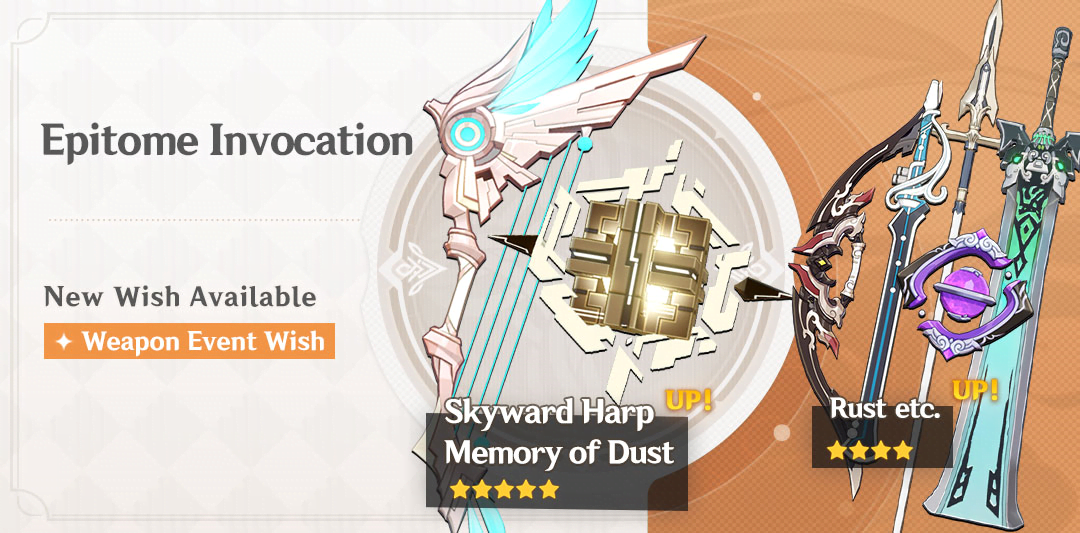
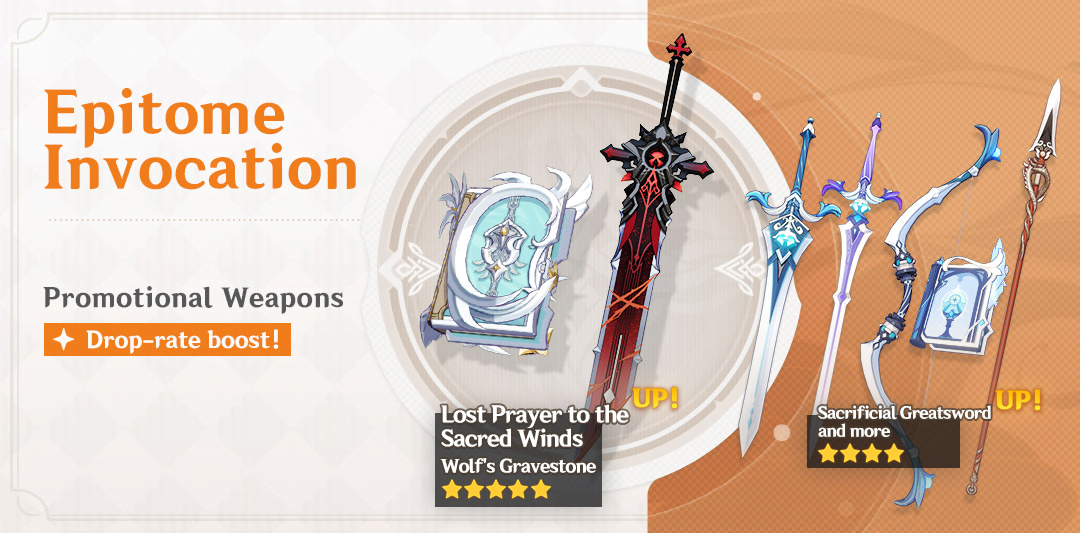
update genshin
增加武器祈愿信息 当前祈愿页有bug

diff --git a/assets/js/genshin/timeline.js b/assets/js/genshin/timeline.js
@@ -3,15 +3,17 @@ let today = dayjs();
 
 const eventObj = processEvent();
 
-let wishCharacters = eventObj.events;
+let wishCharacters = eventObj.events[0];
+let wishWeapons = eventObj.events[1];
+let wishCharacterLength = wishCharacters.length;
+let wishWeaponLength = wishWeapons.length;
 let dates = eventObj.dates;
 let monthList = eventObj.monthList;
-let wishLength = wishCharacters.length;
 
 //设置时间轴
 const setTimeAxis = () => {
     let startD = dayjs(wishCharacters[0].start).subtract(7, "day").format("YYYY-MM-DD HH:mm:ss");
-    let endD = dayjs(wishCharacters[wishLength - 1].end).add(7, "day").format("YYYY-MM-DD HH:mm:ss");
+    let endD = dayjs(wishCharacters[wishCharacterLength - 1].end).add(7, "day").format("YYYY-MM-DD HH:mm:ss");
     const allDays = getDuration("day", startD, endD);
     const countDays = allDays.length;
 
@@ -50,28 +52,47 @@ setInterval("setTodayTime()", 1000);
 //---------------------------------------------------------------------------
 
 //祈愿角色信息
-const wishInfo = () => {
-    for (let i = 0; i < wishLength; ++i) {
+const wishCharacterInfo = () => {
+    for (let i = 0; i < wishCharacterLength; ++i) {
         let start = firstDay;
         const end = dayjs(wishCharacters[i].start, "YYYY-MM-DD HH:mm:ss").subtract(0, "minute");
         const duration = end.diff(start, "day", true);
         // console.log(i, duration)
 
         //动态设置各个角色的css
-        $(".event-item-" + i).removeClass("hide");
-        $(".event-item-" + i).css({
+        $(".event-item-character-" + i).removeClass("hide");
+        $(".event-item-character-" + i).css({
             "width": wishCharacters[i].duration * DAY_WIDTH + "px",
             "left": duration * DAY_WIDTH + 30 + "px"
         });
         if (wishCharacters[i].wish_2)
-            $(".event-item-" + i).css("marginTop", "140px");
+            $(".event-item-character-" + i).css("marginTop", "140px");
 
         //left-t
         $(".left-t" + i).css("left", (350 * i) + "px");
     }
 };
-wishInfo();
+wishCharacterInfo();
+//祈愿武器信息
+const wishWeaponInfo = () => {
+    for (let i = 0; i < wishWeaponLength; ++i) {
+        let start = firstDay;
+        const end = dayjs(wishWeapons[i].start, "YYYY-MM-DD HH:mm:ss").subtract(0, "minute");
+        const duration = end.diff(start, "day", true);
+        // console.log(i, duration)
 
+        //动态设置各个角色的css
+        $(".event-item-weapon-" + i).removeClass("hide");
+        $(".event-item-weapon-" + i).css({
+            "width": wishWeapons[i].duration * DAY_WIDTH + "px",
+            "left": duration * DAY_WIDTH + 30 + "px"
+        });
+
+        //left-t
+        $(".left-t" + i).css("left", (350 * i) + "px");
+    }
+};
+wishWeaponInfo();
 
 $(".lazy").lazyload({
     placeholder: "assets/res/genshin-impact/characters/kamisato_ayaka.png", // 用图片提前占位，值为某一图片路径.此图片用来占据将要加载的图片的位置,待图片加载时,占位图则会隐藏

diff --git a/_includes/genshin/timeline.html b/_includes/genshin/timeline.html
@@ -27,14 +27,32 @@
                 <div class="timeline-today-line-pos-text" id="currentTime"></div>
             </div>
 
-            <div class="timeline-wish">
+            <div class="timeline-wish-event-weapon">
+                {% for weapon in site.data.genshin.wish.weapons %}
+                {% assign i = forloop.index0 %}
+
+                <div class="card event-item event-item-weapon-{{i}} hide">
+                    <div class="card-image waves-effect waves-block waves-light" style="height: 100%">
+                        <div class="event-img responsive-img lazy"
+                             data-original="/assets/res/genshin-impact/wish/{{weapon.name | downcase | replace: ' ', '_' | append: '_' | append: weapon.image | append: '.jpg' }}">
+                        </div>
+                        <div class="left-align timeline-character-text ele-text-{{characters[1].ele}}">
+                            <div class="timeline-wish-name">{{weapon.name}}</div>
+                        </div>
+                    </div>
+                </div>
+
+                {% endfor %}
+            </div>
+
+            <div class="timeline-wish-event-character">
 
                 {% for wish in site.data.genshin.wish.characters %}
                 {% assign i = forloop.index0 %}
 
                 {% for characters in site.data.genshin.characters %}
                 {% if characters[1].id == wish.wish5star %}
-                <div class="card event-item event-item-{{i}} event-item-background-{{characters[1].ele}} hide">
+                <div class="card event-item event-item-character-{{i}} event-item-background-{{characters[1].ele}} hide">
                     <div class="card-image waves-effect waves-block waves-light" style="height: 100%">
                         <!-- Modal Trigger -->
                         <a class="modal-trigger" href="#modal{{i}}">
@@ -84,6 +102,7 @@
                 {% endif %}
                 {% endfor %}
                 {% endfor %}
+
             </div>
 
             {% for i in (0..lenAllDays) %}

diff --git a/assets/css/genshin.css b/assets/css/genshin.css
@@ -6,6 +6,7 @@
     --ele-pyro: #fa5d3e;
     --ele-anemo: #57dcb0;
     --ele-cryo: #84c2e6;
+    --event-height: 128px;
 }
 
 /*元素背景色*/
@@ -221,7 +222,7 @@
     border-radius: 20px;
     opacity: 1;
     right: 0;
-    height: 128px;
+    height: var(--event-height);
 }
 
 .event-item-background-dendro {
@@ -278,7 +279,7 @@
     overflow-y: hidden;
     overflow-x: scroll;
     /*display: flex;*/
-    height: 350px;
+    height: calc(var(--event-height) * 4);
 }
 
 .timeline-scroll-x::-webkit-scrollbar { /*滚动条整体样式*/
@@ -313,14 +314,21 @@
 .timeline-day {
     display: flex;
     margin-top: 20px;
-    height: 350px;
+    height: calc(var(--event-height) * 4);
     position: relative;
 }
 
-.timeline-wish {
+.timeline-wish-event-weapon {
     display: flex;
     position: absolute;
-    z-index: 3
+    z-index: 3;
+}
+
+.timeline-wish-event-character {
+    top: calc(var(--event-height) + 10px);
+    display: flex;
+    position: absolute;
+    z-index: 3;
 }
 
 -webkit-scrollbar {
@@ -336,7 +344,6 @@
     overflow: hidden;
 }
 
-
 .character-avatar {
     background-repeat: no-repeat;
     background-position: center;
@@ -348,7 +355,6 @@
     background-position: center;
     border-radius: 10px;
 }
-
 
 .slider .slides {
     background-color: unset;

diff --git a/assets/js/genshin/event.js b/assets/js/genshin/event.js
@@ -25,7 +25,11 @@ const processEvent = () => {
     let yearList = [];
     let monthList = [];
 
-    let events = eventsData.map((e, i) => {
+    let eventsDataInfo = [];
+    eventsDataInfo[0] = eventsData["characters"];
+    eventsDataInfo[1] = eventsData["weapons"];
+
+    let events = eventsDataInfo.map((e, i) => {
         if (Array.isArray(e)) {
             return e.map((item) => convertToDate(item, i));
         }

diff --git a/assets/js/genshin/wish.js b/assets/js/genshin/wish.js
@@ -10,7 +10,7 @@ const ELEMENT_COLOR = {
 
 const eventObj = processEvent();
 
-let wishCharacters = eventObj.events;
+let wishCharacters = eventObj.events[0];
 let wishLength = wishCharacters.length;
 
 //替换空格 转小写----------------
@@ -28,7 +28,6 @@ let objWish = {
 };
 //找出当前在哪个祈愿时间段
 const getWishObj = () => {
-
 
     let obj = {};
     obj.wishIndex = [];

diff --git a/_includes/genshin/script.html b/_includes/genshin/script.html
@@ -1,4 +1,4 @@
 <script>
     //这样获取时 需要在对应的时间后面加上utc+8
-    const eventsData = {{site.data.genshin.wish.characters | jsonify}}
+    const eventsData = {{site.data.genshin.wish | jsonify}}
 </script>
